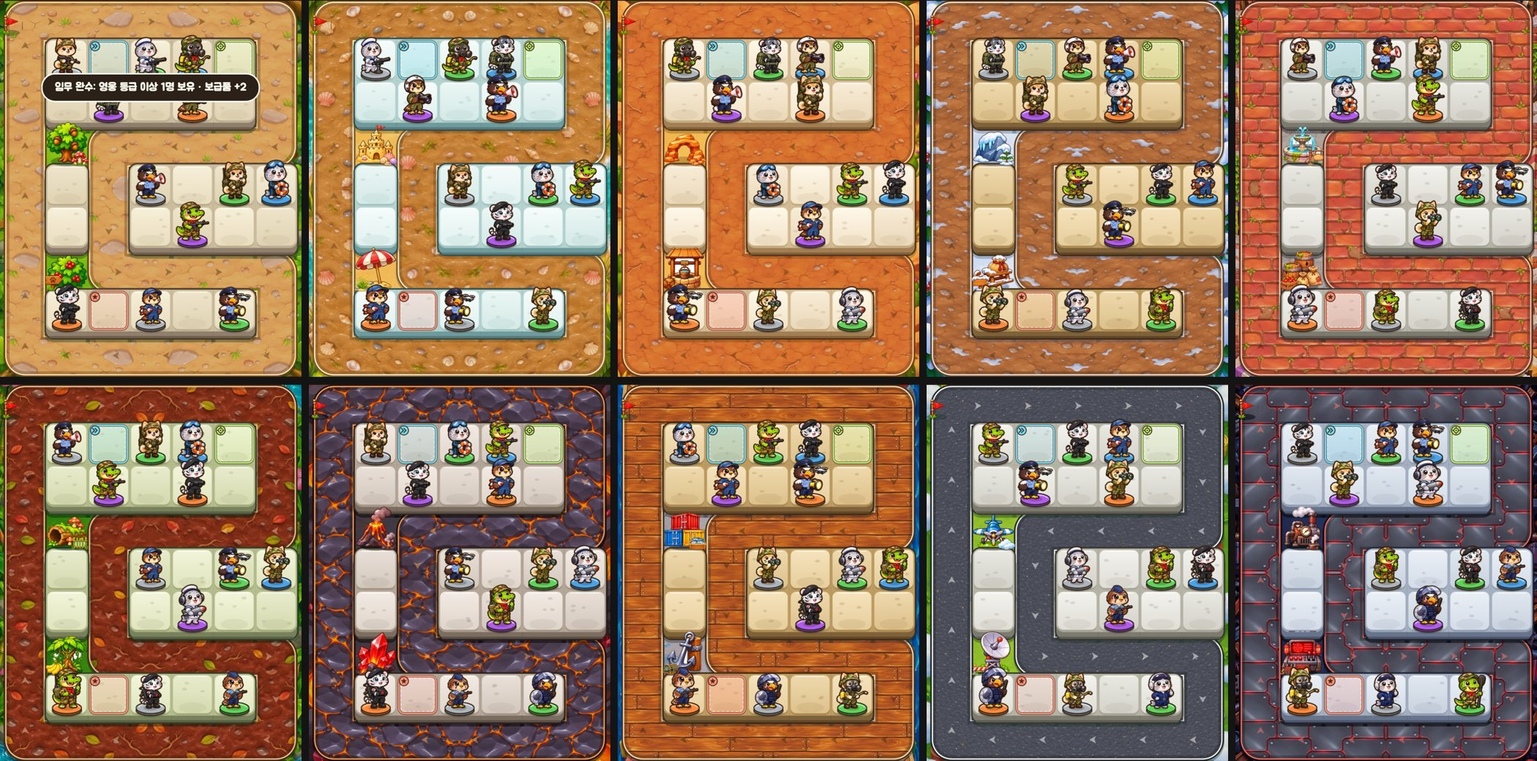
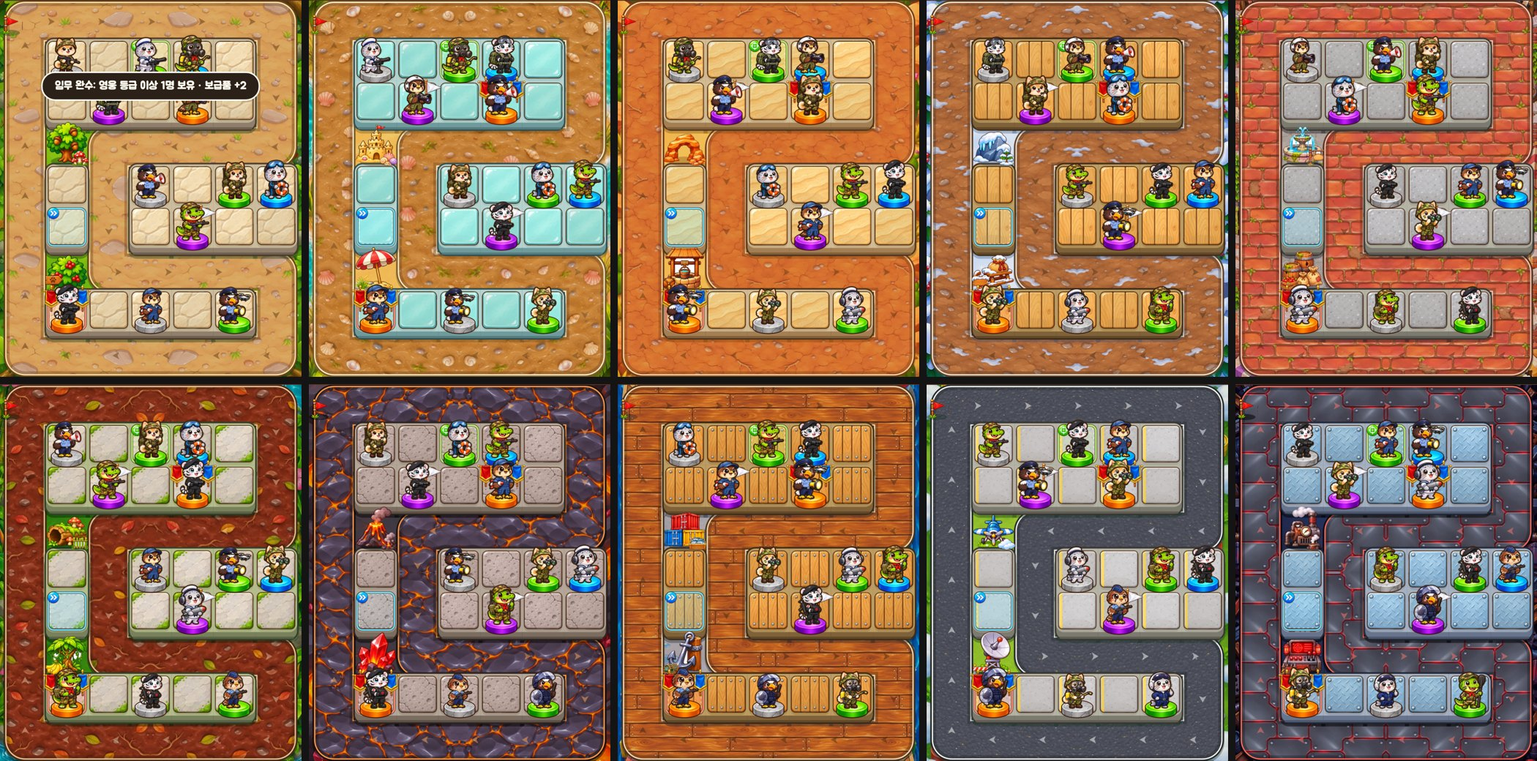
끝까지 코드로 그리던 것도 그림으로: 화면 틀 조각 · 발판 타일 · 선택 틀 · 사거리 고리 · 체력 막대 · 계급장
- Codex 그림 3장: uikit2 · tiles · marks2
- 전장: 지역별 발판 타일, 조합/선택 틀, 사거리 고리, 체력 막대, 계급장 기호
- 화면: 재화 칸·네모 단추·안내 줄·나무 띠·진행 막대·카드에 그림 틀

Claude-Session: https://claude.ai/code/session_017VP8BVWohypkUvNmKY1rp7

diff --git a/www/js/render.js b/www/js/render.js
@@ -1,7 +1,7 @@
 // 전장 그리기 — 위에서 비스듬히 내려다본 느낌. 바닥은 두께가 있는 발판, 캐릭터는 그 위에 서 있고 아래쪽 줄이 위쪽 줄을 가린다.
 import { CLASS_INFO, GRADES } from './data.js';
 import { FIELD, CELL, CFG, AREAS, TILES, unitRange, rankGroup, canMerge, sameType, rankName, rankInsig, mergePreview, heroOf, branchOf, charName, mine, own } from './core.js';
-import { drawTag, drawSoldierFallback, unitImage, unitAtkImage, unitRdyImage, v2HeroArt, unitArtTier, ENEMY_DRAW, ENEMY_R, sprite, spriteBox, enemyArt, loadArt, V2, v2Art, v2Has } from './sprites.js';
+import { drawTag, drawSoldierFallback, unitImage, unitAtkImage, unitRdyImage, v2HeroArt, insigReady, unitArtTier, ENEMY_DRAW, ENEMY_R, sprite, spriteBox, enemyArt, loadArt, V2, v2Art, v2Has } from './sprites.js';
 loadArt();
 
 const DEPTH = 18;                                      // 발판 블록 옆면 두께 (높이감)
@@ -104,7 +104,8 @@ function background2(k, area, map) {
   const want = AREAS[area].theme, th = v2Has('ground_' + want) ? want : 'meadow', P = V2_THEME[th], pth = v2Has(`prop_${th}_b1`) ? th : 'meadow';
   const G = v2Art('ground_' + th), RD = v2Art(v2Has('road_' + th) ? 'road_' + th : 'road_meadow');
   const big = [1, 2, 3, 4, 5, 6].map(i => `prop_${pth}_b${i}`), small = [1, 2, 3, 4, 5, 6].map(i => `prop_${pth}_s${i}`).filter(v2Has);
-  const ready = [G, RD, v2Art('prop_flag'), ...big.map(v2Art), ...small.map(v2Art)].filter(Boolean).length;
+  const TI = v2Art('tile_' + th);      // 발판 타일 그림(지역마다 한 장)
+  const ready = [G, RD, TI, v2Art('prop_flag'), ...big.map(v2Art), ...small.map(v2Art)].filter(Boolean).length;
   const key = 'v2:' + area + ':' + th + ':' + (map.id || '') + '@' + k.toFixed(3) + ':' + ready; if (bg && bgKey === key) return bg;
   if (!bg) bg = document.createElement('canvas');
   bg.width = Math.ceil(FIELD.w * k); bg.height = Math.ceil(FIELD.h * k); bgKey = key;
@@ -140,6 +141,7 @@ function background2(k, area, map) {
   c.fillStyle = P.grout; for (const s of map.slots) cell(s, 0, 0);                               // 윗면(타일 사이 줄눈)
   for (const s of map.slots) { const x = s.x - hw + 3.5, y = s.y - hh - 8 + 3.5, w = CELL.w - 7, alt = (s.r + s.c) % 2;
     c.fillStyle = P.lip; rr(c, x, y + 2.5, w, w, 13); c.fill();                                       // 타일 아랫단
+    if (TI) { c.drawImage(TI, x, y, w, w - 2); if (alt) { c.fillStyle = 'rgba(60,40,20,.07)'; rr(c, x, y, w, w - 2, 13); c.fill(); } c.fillStyle = P.lip; c.globalAlpha = 0.16; c.beginPath(); c.ellipse(s.x, s.y + FEET - 4, 33, 12.5, 0, 0, 7); c.fill(); c.globalAlpha = 1; continue; }      // 타일 그림(칸이 번갈아 살짝 어둡다)
     const tg = c.createLinearGradient(0, y, 0, y + w); tg.addColorStop(0, P.tile[alt ? 2 : 0]); tg.addColorStop(1, P.tile[alt ? 3 : 1]);
     c.fillStyle = tg; rr(c, x, y, w, w - 2, 13); c.fill();
     c.strokeStyle = 'rgba(255,255,255,.75)'; c.lineWidth = 2; c.lineCap = 'round'; c.beginPath(); c.moveTo(x + 13, y + 3); c.lineTo(x + w - 13, y + 3); c.stroke();
@@ -313,20 +315,27 @@ export function draw(ctx, g, ui, quality = 2) {
   SLOTS.forEach((s, i) => {
     const x = s.x - CELL.w / 2 + 4, y = s.y - CELL.h / 2 - 4, mergeable = sel && i !== ui.sel && canMerge(g, ui.sel, i);
     // 조합할 수 있는 칸: 같은 병과(병과 유지)는 노란색, 다른 병과(무작위)는 보라색 점선
-    if (mergeable) { const pv = mergePreview(g, ui.sel, i), keep = !pv.random, star = !!pv.hidden, a = 0.32 + 0.18 * Math.sin(now * 6);
+    const cy = s.y - 8;      // 칸 가운데 높이
+    if (mergeable && V2 && v2Art('hl_merge') && v2Art('hl_rand') && v2Art('hl_star')) { const pv = mergePreview(g, ui.sel, i), a = 0.32 + 0.18 * Math.sin(now * 6);      // 새 그림체: 조합할 수 있는 칸에 빛나는 틀 그림(같은 병과 = 금색 · 다른 병과 = 보라 점선 · 용사/히든 = 별 달린 붉은 틀)
+      ctx.fillStyle = pv.hidden ? `rgba(255,120,80,${a * 0.7})` : !pv.random ? `rgba(255,212,94,${a * 0.7})` : `rgba(190,150,255,${a * 0.55})`; rr(ctx, x + 2, y + 2, CELL.w - 12, CELL.h - 12, 12); ctx.fill();
+      fx(ctx, pv.hidden ? 'hl_star' : !pv.random ? 'hl_merge' : 'hl_rand', s.x, cy, 104 + 3 * Math.sin(now * 6), 0, 0.82 + 0.18 * Math.sin(now * 6)); }
+    else if (mergeable) { const pv = mergePreview(g, ui.sel, i), keep = !pv.random, star = !!pv.hidden, a = 0.32 + 0.18 * Math.sin(now * 6);
       ctx.fillStyle = star ? `rgba(255,120,80,${a})` : keep ? `rgba(255,212,94,${a})` : `rgba(190,150,255,${a * 0.8})`; rr(ctx, x, y, CELL.w - 8, CELL.h - 8, 12); ctx.fill();
       ctx.strokeStyle = star ? '#ff5a4a' : keep ? '#ffd45e' : '#c9a3ff'; ctx.lineWidth = star ? 5 : 4; if (!keep) ctx.setLineDash([9, 7]); ctx.stroke(); ctx.setLineDash([]);
       if (star) starAt(ctx, s.x + 34, s.y - 42, 11 + 2 * Math.sin(now * 6), '#ffd45e'); }      // 용사·히든 조합이 되는 짝: 붉은 테두리와 별
+    else if (sel && i === ui.sel && fx(ctx, 'hl_sel', s.x, cy, 104)) { /* 고른 칸: 하늘색 틀 그림 */ }
     else if (sel && i === ui.sel) { ctx.strokeStyle = '#fff'; ctx.lineWidth = 4; rr(ctx, x, y, CELL.w - 8, CELL.h - 8, 12); ctx.stroke(); }
     else if (!sel) { const u = g.units[i]; if (u && own(g, u) && pairN[branchOf(g, u).id + u.level] >= 2) {
+      if (fx(ctx, 'hl_merge', s.x, cy, 98, 0, 0.42 + 0.2 * Math.sin(now * 4))) return;      // 짝이 있는 칸: 금색 틀 그림을 옅게
       ctx.strokeStyle = `rgba(255,224,110,${0.55 + 0.25 * Math.sin(now * 4)})`; ctx.lineWidth = 3; ctx.setLineDash([7, 6]); rr(ctx, x + 2, y + 2, CELL.w - 12, CELL.h - 12, 11); ctx.stroke(); ctx.setLineDash([]); } }
   });
   // 선택 유닛 사거리 · 지원 범위 (바닥에 눕힌 원)
   if (sel) {
     const p = SLOTS[sel.slot];
     ctx.fillStyle = 'rgba(255,255,255,.08)'; ctx.strokeStyle = 'rgba(255,255,255,.55)'; ctx.lineWidth = 2;
-    ctx.beginPath(); ctx.arc(p.x, p.y, unitRange(sel), 0, 7); ctx.fill(); ctx.stroke();
-    if ((sel.hidden && !heroOf(sel)) || sel.stats.haste > 0) { ctx.strokeStyle = sel.hidden ? '#ffd45e' : CLASS_INFO.med.color; ctx.setLineDash([6, 6]);
+    ctx.beginPath(); ctx.arc(p.x, p.y, unitRange(sel), 0, 7); ctx.fill(); if (!fx(ctx, 'ring_sel', p.x, p.y, unitRange(sel) * 2.06, now * 0.15, 0.9)) ctx.stroke();      // 사거리: 천천히 도는 점선 고리 그림
+    if (((sel.hidden && !heroOf(sel)) || sel.stats.haste > 0) && fx(ctx, 'ring_aura', p.x, p.y, CFG.auraRadius * 2.06, -now * 0.2, 0.9)) { /* 지원 범위: 연두색 점선 고리 그림 */ }
+    else if ((sel.hidden && !heroOf(sel)) || sel.stats.haste > 0) { ctx.strokeStyle = sel.hidden ? '#ffd45e' : CLASS_INFO.med.color; ctx.setLineDash([6, 6]);
       ctx.beginPath(); ctx.arc(p.x, p.y, CFG.auraRadius, 0, 7); ctx.stroke(); ctx.setLineDash([]); }
   }
   // 화염 지대(불바다): 바닥에서 일렁이는 불
@@ -434,7 +443,10 @@ function enemy(ctx, e, k, quality) {
   if (bubble) fx(ctx, 'st_bubble', e.x, e.y - 2 - fly, half * 2.7, 0, 0.6 + 0.12 * Math.sin(performance.now() / 120));
   if (V2 && e.hitT > 0) { ctx.globalCompositeOperation = 'lighter'; ctx.globalAlpha = Math.min(1, e.hitT / 0.12) * 0.75; put(ctx, ef, e.x - half, e.y - half + by - fly); ctx.globalAlpha = 1; ctx.globalCompositeOperation = 'source-over'; }      // 맞는 순간 밝게 번쩍
   if (V2) { const bw = Math.max(26, r * 1.7), bx = e.x - bw / 2, byy = Math.max(4, e.y - half - 9 - fly), hp = Math.max(0, e.hp / e.maxHp);      // 체력 막대: 둥근 테두리, 체력이 줄면 초록 → 노랑 → 빨강
-    if (hp < 1 || e.kind === 'boss' || elite) { ctx.fillStyle = '#2b1a0c'; rr(ctx, bx - 2, byy - 2, bw + 4, 9, 4.5); ctx.fill(); ctx.fillStyle = '#5a4634'; rr(ctx, bx, byy, bw, 5, 2.5); ctx.fill();
+    const tr = v2Art('ui_trough'), fl = v2Art(hp > 0.5 ? 'ui_fill_green' : hp > 0.25 ? 'ui_fill_gold' : 'ui_fill_red');
+    if ((hp < 1 || e.kind === 'boss' || elite) && tr && fl) { ctx.drawImage(tr, bx - 2.5, byy - 2.5, bw + 5, 10);      // 체력 막대: 막대 틀 그림 안에 남은 만큼 색 막대 그림(체력이 줄면 초록 → 노랑 → 빨강)
+      const fw = Math.max(0.06, hp); ctx.drawImage(fl, 0, 0, fl.naturalWidth * fw, fl.naturalHeight, bx, byy, bw * fw, 5); }
+    else if (hp < 1 || e.kind === 'boss' || elite) { ctx.fillStyle = '#2b1a0c'; rr(ctx, bx - 2, byy - 2, bw + 4, 9, 4.5); ctx.fill(); ctx.fillStyle = '#5a4634'; rr(ctx, bx, byy, bw, 5, 2.5); ctx.fill();
       ctx.fillStyle = hp > 0.5 ? '#6fe04a' : hp > 0.25 ? '#ffc93a' : '#ff5a44'; rr(ctx, bx, byy, Math.max(3, bw * hp), 5, 2.5); ctx.fill(); } }
   else { ctx.fillStyle = 'rgba(0,0,0,.7)'; ctx.fillRect(e.x - r - 1, e.y - half - 4 - fly, r * 2 + 2, 6);
     ctx.fillStyle = '#7be36a'; ctx.fillRect(e.x - r, e.y - half - 3 - fly, r * 2 * Math.max(0, e.hp / e.maxHp), 4); }
@@ -678,7 +690,7 @@ function unit(ctx, b, u, p, k, now, quality, T, skin = true) {      // skin: 내
 function unitTags(ctx, b, u, p, k) {
   const tier = u.level >= b.tiers[1] ? 2 : u.level >= b.tiers[0] ? 1 : 0, rank = rankName(b, u), tk = u.type.join('+');
   const o = { branchId: b.id, bname: b.name, bcol: b.color, nick: charName(b, u), type: u.type, tier, rank, hidden: !!u.hidden, insig: rankInsig(b, u), gcol: GRADES[Math.min(u.level, GRADES.length - 1)].color };
-  const tkey = [b.id, tk, tier, rank, u.hidden || 0, o.insig.join('')].join(':');
+  const tkey = [b.id, tk, tier, rank, u.hidden || 0, o.insig.join(''), insigReady() ? 'i' : ''].join(':');
   ctx.drawImage(spriteBox('utb:' + tkey, k, BADGE_BOX, c => drawTag(c, o, 'badge')), p.x + BADGE_BOX[0], p.y + BADGE_BOX[1], BADGE_BOX[2] - BADGE_BOX[0], BADGE_BOX[3] - BADGE_BOX[1]);
   ctx.drawImage(spriteBox('utl:' + tkey, k, LABEL_BOX, c => drawTag(c, o, 'label')), p.x + LABEL_BOX[0], p.y + LABEL_BOX[1], LABEL_BOX[2] - LABEL_BOX[0], LABEL_BOX[3] - LABEL_BOX[1]);
 }

diff --git a/www/v2.css b/www/v2.css
@@ -69,3 +69,24 @@
 .v2 .bc.open.big { filter: drop-shadow(0 0 0.3rem #ffb81f); }
 /* 세로가 짧은 화면: 유닛 카드의 나무 틀을 얇게(안쪽 자리가 좁다) */
 .v2 #app.short .card { border-image-width: 1.15rem; padding: 0.95rem 1.2rem 1rem; }
+/* ── 남은 화면 틀도 그림으로(2026-11-21): 알약 칸 · 네모 단추 · 안내 줄 · 나무 띠 · 진행 막대 · 카드 ── */
+.v2 .pill, .v2 .board { border: 0 solid transparent; background: none !important; box-shadow: none !important; border-radius: 0; border-image: url(img/v2/ui_pill.webp) 48% 21% fill / 50% 1.5rem stretch; filter: drop-shadow(0 0.2rem 0.05rem rgba(40, 25, 10, .32)); }
+.v2 .hbtn, .v2 .lt span { border: 0 solid transparent; background: none !important; box-shadow: none !important; border-radius: 0; border-image: url(img/v2/ui_sq.webp) 28% fill / 1.15rem stretch; filter: drop-shadow(0 0.2rem 0.05rem rgba(40, 25, 10, .32)); }
+.v2 .sh .hbtn { border: 0 solid transparent; }
+.v2 .ticker p, .v2 .lprof { border: 0 solid transparent; background: none !important; box-shadow: none !important; border-radius: 0; border-image: url(img/v2/ui_bar.webp) 48% 14% fill / 50% 1.5rem stretch; }
+.v2 .brief { border: 0 solid transparent; background: none !important; box-shadow: none !important; border-radius: 0; border-image: url(img/v2/ui_wood.webp) 20% fill / 1.5rem stretch; padding: 1.1rem 1.4rem; }
+.v2 #hud { background: #5a3719 url(img/v2/ui_plank.webp) center / 100% 100% no-repeat; border-bottom: 0; box-shadow: 0 0.25rem 0.3rem rgba(20, 10, 0, .35); }
+.v2 .nav5 { background: #4a2d14 url(img/v2/ui_plank.webp) center / 100% 100% no-repeat; border-top: 0; }
+.v2 .bar { height: 1.05rem; padding: 0.2rem 0.4rem; box-sizing: border-box; border: 0; border-radius: 0; box-shadow: none; background: url(img/v2/ui_trough.webp) center / 100% 100% no-repeat; }
+.v2 .bar u { border-radius: 0; box-shadow: none; background: url(img/v2/ui_fill_gold.webp) left center / 100% 100% no-repeat; } .v2 .bar.red u { background-image: url(img/v2/ui_fill_red.webp); }
+.v2 .sc, .v2 .sinfo, .v2 .up, .v2 .wcard, .v2 .ucard, .v2 .skin, .v2 .pt.res { border: 0 solid transparent; background: none !important; box-shadow: none !important; border-radius: 0; border-image: url(img/v2/ui_panel.webp) 17% fill / 1.35rem stretch; }
+.v2 .wcard.now, .v2 .skin.on { filter: drop-shadow(0 0 0.25rem #ff8a1f) drop-shadow(0 0 0.1rem #ff8a1f); }
+.v2 .cc { border: 0 solid transparent; background: none !important; box-shadow: none !important; border-radius: 0; border-image: url(img/v2/ui_sq_tan.webp) 28% fill / 1.3rem stretch; filter: drop-shadow(0 0.25rem 0.05rem rgba(40, 25, 10, .3)); }
+.v2 .cc.has { border-image-source: url(img/v2/ui_sq_green.webp); } .v2 .cc.sel { outline: none; filter: drop-shadow(0 0 0.3rem #ff8a1f) drop-shadow(0 0 0.12rem #ff8a1f); }
+/* 대기실·탭 화면 위쪽의 재화 칸은 원래 규칙이 더 세서(border를 다시 정해 그림 틀이 지워진다) 한 번 더 지정한다 */
+.v2 .res .pill, .v2 .thead .res .pill, .v2 .lstage .res .pill { border: 0 solid transparent; border-image: url(img/v2/ui_pill.webp) 48% 21% fill / 50% 1.5rem stretch; }
+/* 위쪽 표시줄의 나무 띠: 양 끝 못이 깃발·단추와 겹치지 않게 가로로 넉넉히 늘려 못을 화면 밖으로 보낸다 */
+.v2 #hud { background-size: 132% 100%; }
+/* 상점의 구매 단추 */
+.v2 .sbtn { border: 0 solid transparent; background: none !important; box-shadow: none !important; border-radius: 0; border-image: url(img/v2/ui_btn_gold.webp) 44% 20% fill / 50% 1.6rem stretch; color: #5a3206; }
+.v2 .sbtn:disabled { border-image-source: url(img/v2/ui_btn_gray.webp); color: #5c5c5c; opacity: 1; }

diff --git a/www/js/sprites.js b/www/js/sprites.js
@@ -133,9 +133,17 @@ function insigSize([shape, n]) {
 function vee(c, cx, top) { c.beginPath(); c.moveTo(cx - 4, top); c.lineTo(cx, top + 3.8); c.lineTo(cx + 4, top); c.stroke(); }
 function flower(c, x, y, r, center) { for (let i = 0; i < 5; i++) { const a = -Math.PI / 2 + i * Math.PI * 2 / 5; c.beginPath(); c.arc(x + Math.cos(a) * r * 1.24, y + Math.sin(a) * r * 1.24, r, 0, 7); c.fill(); }
   c.fillStyle = center; c.beginPath(); c.arc(x, y, r * 0.68, 0, 7); c.fill(); }
+// 새 그림체의 계급장 기호 그림(막대 · V자 · 다이아몬드 · 금 다이아몬드 · 꽃 · 별 · 봉오리 · 큰 꽃). 여덟 장이 다 읽혔을 때만 쓴다(그 전에는 아래 코드 그림)
+const INSIG_ART = { bar: 'in_bar', chev: 'in_chev', chevstar: 'in_chev', dia: 'in_dia', gdia: 'in_gdia', flower: 'in_flower', star: 'in_star', bud: 'in_bud', tflower: 'in_tflower' };
+export const insigReady = () => V2 && ['in_bar', 'in_chev', 'in_dia', 'in_gdia', 'in_flower', 'in_star', 'in_bud', 'in_tflower'].every(n => !!v2Art(n));
 // (x, y)를 내용의 왼쪽 위로 하여 계급장을 그린다
 function drawInsig(c, insig, x, y) {
   const [shape, n] = insig, [w, h] = insigSize(insig); c.fillStyle = c.strokeStyle = INSIG_COL[shape];
+  if (insigReady()) { const im = v2Art(INSIG_ART[shape]), at = (cx, cy, sz, pic = im) => c.drawImage(pic, cx - sz / 2, cy - sz / 2, sz, sz);      // 기호 그림을 예전과 같은 자리·개수로 놓는다
+    if (shape === 'bar') for (let i = 0; i < n; i++) at(x + 4.5, y + 0.95 + i * 3.1, 9.6);
+    else if (shape === 'chev' || shape === 'chevstar') { for (let i = 0; i < n; i++) at(x + 4.7, y + 2.3 + i * 3.3, 9.4); if (shape === 'chevstar') at(x + 9.4 + 4.4, y + h / 2, 9.4, v2Art('in_star')); }
+    else for (let i = 0; i < n; i++) at(x + (shape === 'tflower' ? 5 : shape === 'bud' ? 3 : 4) + i * SIDE_STEP[shape], y + h / 2, shape === 'tflower' ? 11.4 : shape === 'bud' ? 8.6 : 10);
+    return; }
   if (shape === 'bar') for (let i = 0; i < n; i++) rr(c, x, y + i * 3.1, 9, 1.9, 0.9), c.fill();
   else if (shape === 'chev' || shape === 'chevstar') { c.lineWidth = 1.9; c.lineJoin = 'miter'; c.lineCap = 'round';
     for (let i = 0; i < n; i++) vee(c, x + 4.7, y + 0.4 + i * 3.3);
@@ -152,7 +160,7 @@ const badgeSize = insig => { const [w, h] = insigSize(insig); return w ? [w + 7.
 // 도감 등 HTML 화면에서 쓸 계급장 그림 (data URL, 한 번 만들어 두고 다시 쓴다). 계급장이 없는 계급(훈련병)은 투명한 점 하나
 const insigUrls = {};
 export function insigUrl(insig) {
-  const key = insig.join('');
+  const key = insig.join('') + (insigReady() ? ':i' : '');      // 기호 그림이 읽힌 뒤에는 그림으로 다시 만든다
   if (!insigUrls[key]) {
     const [w, h] = badgeSize(insig), k = 4, [cw, ch] = insigSize(insig);
     const cv = document.createElement('canvas'); cv.width = Math.max(1, Math.ceil(w * k)); cv.height = Math.max(1, Math.ceil((h || 15) * k));

diff --git a/art/ref/jobs.py b/art/ref/jobs.py
@@ -307,3 +307,21 @@ add('stageui.png', sheet('twelve', 4, 3) + "These are map and reward pieces for 
     "Row 2, left to right: (5) a closed wooden treasure chest with gold trim; (6) an open wooden treasure chest with golden light shining out; (7) a sky-blue supply crate with a white star; (8) a rolled parchment map tied with a red ribbon. "
     "Row 3, left to right: (9) a red warning triangle sign with one bold exclamation mark (this single exclamation mark is the only symbol allowed); (10) a white speech bubble, blank; (11) a golden laurel wreath with a red ribbon bow, blank in the middle; (12) a wooden signpost arrow pointing right, blank." + SHEET12_TAIL, 1536, 1024)
 json.dump(jobs, open(HERE + '/jobs.json', 'w'), ensure_ascii=False, indent=1); print(len(jobs), '장', max(len(j['prompt']) for j in jobs))
+
+# ══ 7차 (2026-11-21): 끝까지 코드로 그리던 것 — 화면 틀 조각(알약 칸 · 네모 단추 · 안내 줄 · 나무 띠 · 막대) · 지역별 발판 타일 · 선택 표시와 계급장 기호 ═══════════
+add('uikit2.png', sheet('twelve', 4, 3) + "These are blank user-interface pieces for a cute casual mobile game, each seen straight from the front, perfectly symmetric, with nothing written or drawn on them. "
+    "Row 1, left to right: (1) a blank cream-colored capsule pill, about three times as wide as tall, with a thick dark brown outline and a soft highlight on top; (2) a blank cream-colored rounded square button with a thick dark brown outline and a darker bottom edge; "
+    "(3) a blank dark chocolate-brown capsule bar, about five times as wide as tall, with a lighter top edge; (4) a wide horizontal dark wooden plank strip with a gold rivet at each end. "
+    "Row 2, left to right: (5) an empty progress bar: a long dark brown capsule trough, about seven times as wide as tall, hollow and dark inside; (6) a long glossy orange-yellow capsule bar; (7) a long glossy red capsule bar; (8) a long glossy green capsule bar. "
+    "Row 3, left to right: (9) a blank light green rounded square card with a thick dark brown outline; (10) a blank tan beige rounded square card with a thick dark brown outline; (11) a blank sky-blue rounded square button with a thick dark brown outline and a darker bottom edge; "
+    "(12) a blank purple rounded square button with a thick dark brown outline and a darker bottom edge." + SHEET12_TAIL, 1536, 1024)
+add('tiles.png', sheet('twelve', 4, 3) + "Items 1 to 10 are floor tiles for a board game: each is one perfectly square floor tile seen from directly above (top-down), with slightly rounded corners and a soft beveled edge, light colored, with only subtle surface texture and nothing on it. All ten are the same size. "
+    "Row 1, left to right: (1) a cream-colored stone slab; (2) a pale aqua ceramic tile; (3) a pale warm sandstone slab; (4) a light wooden deck tile made of three planks. "
+    "Row 2, left to right: (5) a light gray concrete paving slab; (6) a pale stone slab with a little green moss in the corners; (7) a light warm-gray volcanic stone slab with a few tiny cracks; (8) a light wooden dock tile made of four narrow planks with nail heads. "
+    "Row 3, left to right: (9) a very light gray concrete slab with a thin pale yellow line along one edge; (10) a pale blue steel floor plate with a rivet in each corner; "
+    "(11) a thin sky-blue dashed circle ring, perfectly round, empty inside; (12) a thin lime-green dashed circle ring, perfectly round, empty inside." + SHEET12_TAIL, 1536, 1024)
+add('marks2.png', sheet('twelve', 4, 3) + "Row 1 shows four selection frames for a board game square: each is only a glowing rounded-square outline frame, empty inside. Left to right: (1) a glowing golden-yellow frame; (2) a glowing purple frame made of dashes; "
+    "(3) a glowing orange-red frame with a small gold star on its top right corner; (4) a glowing bright cyan frame. "
+    "Rows 2 and 3 show eight tiny simple badge symbols, each drawn alone and centered. Row 2, left to right: (5) one short horizontal gold bar with rounded ends; (6) one gold V-shaped chevron pointing down; (7) one silver-blue diamond (a rhombus standing on its point); (8) one gold diamond (a rhombus standing on its point). "
+    "Row 3, left to right: (9) one silver-blue flower with five round petals and a gold center; (10) one gold five-pointed star; (11) one small pale green-and-white flower bud; (12) one bigger gold flower with five round petals and a red center." + SHEET12_TAIL, 1536, 1024)
+json.dump(jobs, open(HERE + '/jobs.json', 'w'), ensure_ascii=False, indent=1); print(len(jobs), '장', max(len(j['prompt']) for j in jobs))

diff --git a/art/ref/apply.py b/art/ref/apply.py
@@ -148,6 +148,17 @@ def cut_tight(sheet, cols, rows, names, maxw):
 cut_tight('uikit', 4, 3, 'ui_btn_green ui_btn_gold ui_btn_blue ui_btn_red ui_btn_gray ui_btn_purple ui_panel ui_wood ui_ribbon ui_plaque ui_cardback ui_cardfront'.split(), 256)
 p = os.path.join(RAW, 'title.png')
 if os.path.exists(p): Image.open(p).convert('RGB').resize((768, 1152), Image.LANCZOS).save(os.path.join(OUT, 'title.webp'), quality=84); print('title')
+# 7차: 화면 틀 조각 · 지역별 발판 타일(+ 사거리 고리) · 선택 표시와 계급장 기호
+cut_tight('uikit2', 4, 3, 'ui_pill ui_sq ui_bar ui_plank ui_trough ui_fill_gold ui_fill_red ui_fill_green ui_sq_green ui_sq_tan ui_sq_blue ui_sq_purple'.split(), 256)
+cut('tiles', 4, 3, ['tile_' + t for t in THEMES] + ['ring_sel', 'ring_aura'], 256, pad=0, center=True)
+cut('marks2', 4, 3, 'hl_merge hl_rand hl_star hl_sel in_bar in_chev in_dia in_gdia in_flower in_star in_bud in_tflower'.split(), 192, pad=0.02, center=True)
+# 선택 틀 · 사거리 고리: 틀 안쪽의 흰 바탕은 틀에 막혀 지워지지 않는다 → 흰 픽셀을 어디에 있든 투명하게
+for n in 'hl_merge hl_rand hl_star hl_sel ring_sel ring_aura'.split():
+    f = os.path.join(OUT, n + '.webp')
+    if os.path.exists(f):
+        im = Image.open(f).convert('RGBA'); a = np.array(im).astype(np.int16); mn, mx = a[:, :, :3].min(2), a[:, :, :3].max(2)
+        key = np.clip((mn - 226) / 22, 0, 1) * (mx - mn < 26)      # 밝고 색이 없는 정도(0~1)
+        a[:, :, 3] = (a[:, :, 3] * (1 - key)).astype(np.int16); Image.fromarray(a.astype(np.uint8)).save(f, quality=92)
 # 크림색 버튼(기본 버튼): 회색 버튼의 밝기를 크림색으로 옮겨 만든다(윤곽선은 짙은 갈색 그대로)
 _g = os.path.join(OUT, 'ui_btn_gray.webp')
 if os.path.exists(_g):

diff --git a/docs/HANDOFF.md b/docs/HANDOFF.md
@@ -8,9 +8,25 @@
 > **스테이지 방식(2026-11-21 사용자 결정)**: 스테이지 100개 · 10개마다 지역 · 스테이지마다 다른 맵 · 한 스테이지 = 라운드 30~50개. 한 판에 100단계를 가던 방식은 없앴다(코드의 `mode: 'normal'`은 검사·옛 저장·무한 작전의 바탕으로만 남아 있다). 규칙과 수치는 `docs/DESIGN.md` 맨 아래.
 > **그림체 확정(2026-11-21 사용자)**: 유닛(동물)·적(고철 군단)·배경·글꼴을 E 광택 캐주얼풍 한 그림체로 바꿨고 **이제 이것이 기본 화면**이다. 그림 `www/img/v2/`(목록 `manifest.json`), 지시문 `art/ref/jobs.py`, 자르기 `art/ref/apply.py`. 주소에 `?art=1`을 붙이면 예전 그림(비교용 — 자리 잡으면 예전 그림 `www/img/units/` 14MB와 함께 지운다). **아직 없는 그림**: 스킨 · 계급대별 옷차림(계급은 장식 그림으로 구분) · 스토어 등록용 그림. 용사 · 공격 동작 · 계급 장식 · 전투 효과는 들어갔다. 사용자 결정: 이름표는 고른 유닛에만, 발판은 밝은 판 그대로.
 > 진행 중: (없음) — 큰 작업을 시작할 때 "도구 · 무엇 · 건드리는 파일"을 여기에 적고 끝나면 지운다.
-> **남은 그림(2026-11-21 기준)**: 유닛 60종(대기·준비·발사) · 용사 6종 × 군별 6 · 적 · 보스 10종 · 지역 10곳 · 대기실 · 계급 장식 · 전투 표식/효과 · 결과 화면 그림까지 들어갔다. **안 그린 것**: ① 스킨(예전 스킨은 사람 옷 한 벌이라 동물에는 맞지 않는다 — 스킨을 무엇으로 할지 사용자 결정 필요) ② 계급대별 옷차림(장식 그림으로 대신함) ③ 스토어 등록용 그림(등록할 때). Codex 그림은 하루에 111장을 그렸고 한도에 걸리지 않았다 — 많이 그릴 때는 시작 전에 사용자에게 알린다.
+> **남은 그림(2026-11-21 기준)**: 유닛 60종(대기·준비·발사) · 용사 6종 × 군별 6 · 적 · 보스 10종 · 지역 10곳 · 대기실 · 계급 장식 · 전투 표식/효과 · 결과 화면 그림까지 들어갔다. **안 그린 것**: ① 스킨(예전 스킨은 사람 옷 한 벌이라 동물에는 맞지 않는다 — 스킨을 무엇으로 할지 사용자 결정 필요) ② 계급대별 옷차림(장식 그림으로 대신함) ③ 스토어 등록용 그림(등록할 때). Codex 그림은 하루에 114장을 그렸고 한도에 걸리지 않았다 — 많이 그릴 때는 시작 전에 사용자에게 알린다.
 > **게임 이름은 "털뭉치수비대"(붙여 쓴다)**, 아이콘은 시안 C(물개·강아지·참수리) — 2026-11-20 사용자 결정. 저장소 이름·앱 ID(`com.steey.soldierdefense`)·서버 이름·Notion 문서 제목은 옛 이름 그대로 둔다.
 > **세계관**: 털뭉치 마을을 동물 병사들이 고철 군단(기계)으로부터 지킨다. **군별 이름은 육군·해군·해병대·특공대·공군·의경 그대로 쓴다**(사용자: "땅개 부대·백호 부대 말고 육군·특공대 이렇게"). 캐릭터 동물은 육군 = 땅개(강아지)·해군 = 물개·해병대 = 악어·특공대 = 백호·공군 = 보라매·의경 = 참수리(`data.js`의 `animal`, 그림용). **계급과 병과 이름도 그대로 둔다**(사용자 지시). 이름 대응표는 `docs/DESIGN.md` 맨 아래.
+
+## 2026-11-21 — 끝까지 코드로 그리던 것: 화면 틀 조각 · 지역별 발판 타일 · 선택 틀 · 사거리 고리 · 체력 막대 · 계급장 기호
+**경위**: 직전 보고의 "아직 코드로 그리는 것"에 사용자 — "아직 코드로 그리는 것도 Codex로 만들어 줘".
+**직접 한 작업**
+- **그림 3장(Codex, 실패 0)**, 지시문 `art/ref/jobs.py` 7차
+  - `uikit2`: 알약 칸 · 네모 단추 · 짙은 안내 줄 · 나무 띠 · 진행 막대 틀과 색 막대 3종 · 네모 카드 4색 (`ui_pill/sq/bar/plank/trough/fill_*/sq_*`)
+  - `tiles`: 지역 10곳의 발판 타일(`tile_<지역>`) + 사거리 고리 2종(`ring_sel/aura`)
+  - `marks2`: 선택 틀 4종(`hl_merge/rand/star/sel`) + 계급장 기호 8종(`in_bar/chev/dia/gdia/flower/star/bud/tflower`)
+- **자르기**: 선택 틀과 고리는 틀 안쪽 흰 바탕이 막혀 안 지워지므로 흰 픽셀을 어디서든 투명하게 하는 단계를 더했다.
+- **전장**(`render.js` · `sprites.js`): 발판 윗면을 지역별 타일 그림으로(두께·둘레는 그대로 코드), 조합할 수 있는 칸·고른 칸·짝 있는 칸을 빛나는 틀 그림으로, 사거리·지원 범위를 천천히 도는 점선 고리 그림으로, 적 체력 막대를 막대 그림으로, 계급장을 기호 그림으로(유닛 카드·도감의 계급장도 같은 그림).
+- **화면**(`v2.css`): 재화 칸 · 임무 단추 → 알약 그림, 배속·메뉴·닫기·대기실 타일 → 네모 단추 그림, 안내 줄·프로필 → 짙은 줄 그림, 보스 안내 → 나무 판, 위쪽 표시줄·하단 탭 → 나무 띠, 진행 막대 → 막대 그림, 상점·부대·도감·스킨·병과 강화 카드 → 나무 틀 종이 판, 숙련도·표창 칸 → 네모 카드, 상점 구매 단추 → 버튼 그림.
+**검사**: 주요 화면(전투 · 유닛 카드 · 메뉴 · 대기실 · 상점 · 부대)과 지역 10곳 전장을 찍어 확인(`art/ref/ui.jpg` · `areas.jpg`). 유닛 카드는 세로 579 · 560 · 892에서 틀 안. `npm test` 통과, 화면 검사 26종 문제 0, 주둔지 잘림 0, 보스전 지나 12라운드까지 오류 0 · 못 읽은 파일 0, `?art=1` 오류 0.
+**남은 한계**
+- 그림으로 바꿀 수 없어 코드에 남긴 것: 번개 줄기와 유도 선(길이가 매번 다르다), 길의 모양(맵마다 다르다 — 바닥 무늬는 그림), 발판의 두께·둘레, 피해 숫자, 글자. 말풍선·딱지(등급·군별 이름표) 같은 작은 글자 상자와 대기실의 제목 글자도 CSS다.
+- 화면 틀을 `border-image`로 입힌 곳이 많아졌다 — 오래된 기기의 WebView에서 어떻게 보이는지는 실제 기기 확인이 필요하다(안 되면 예전 CSS 모습으로 보이지 않고 틀이 비어 보일 수 있다).
+- 스킨 · 계급대별 옷차림 · 스토어 등록용 그림은 여전히 없음. 새 그림 폴더 9.6MB. 실제 기기 미확인.
 
 ## 2026-11-21 — 코드로 그리던 것도 그림으로: 사격 효과 · 상태 표시 · 등급 받침대 · 버튼/창 틀 · 아이콘 · 스테이지/뽑기
 **경위**: 사용자 — "총알 줄·번개·가스 같은 사격 효과와 메뉴 창 틀도 Codex를 통해 만들어 줘. 이미지가 필요한 건 전체적으로 만들어 줘".
